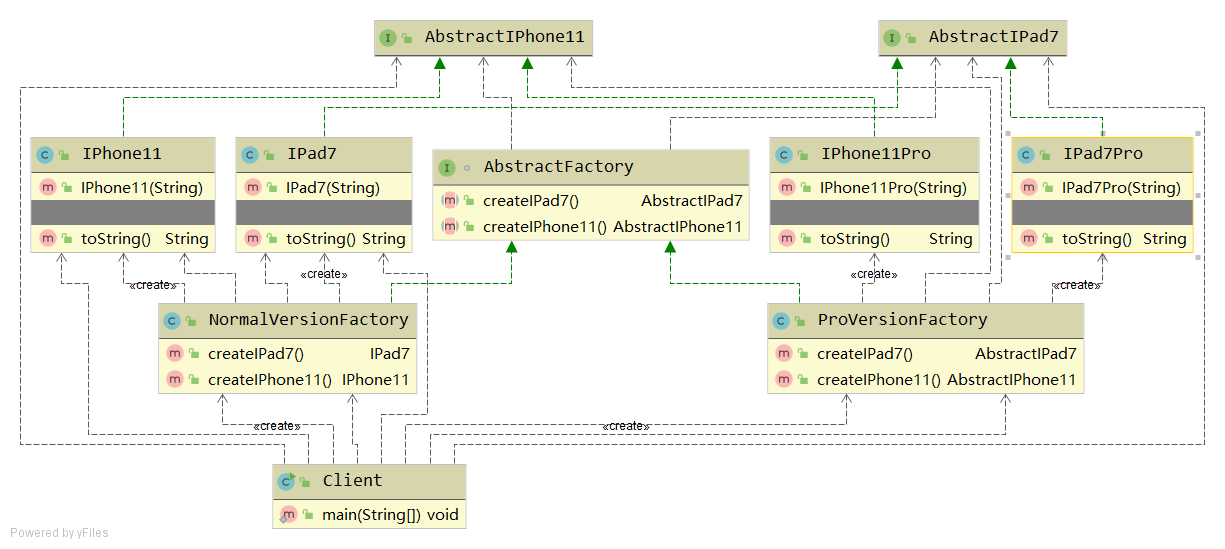
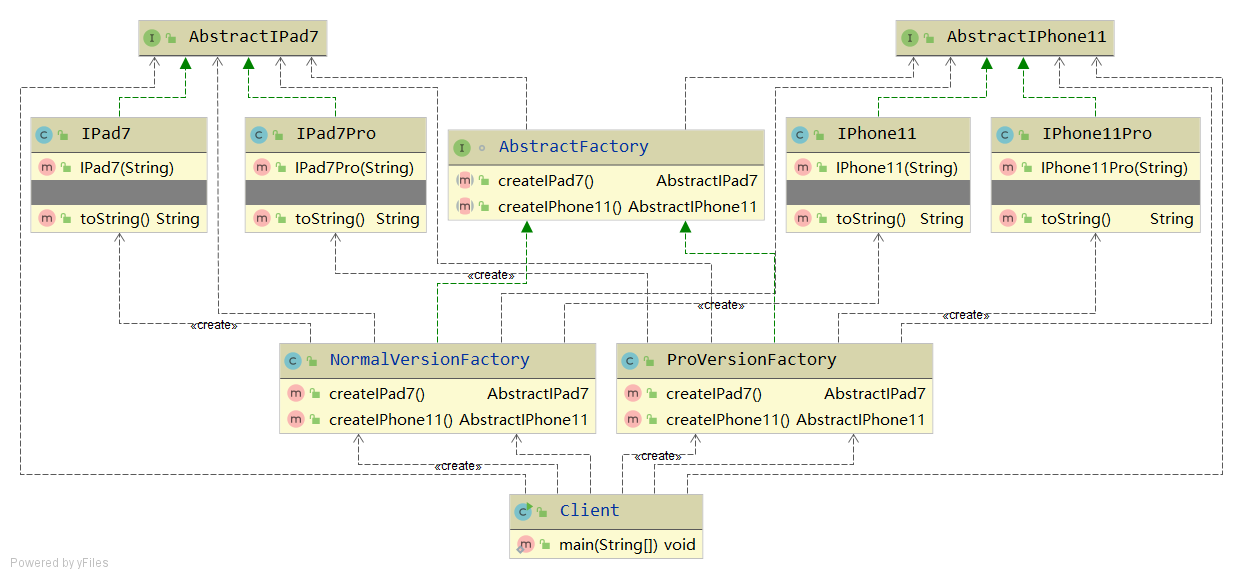
Update AbstractFactory

diff --git a/src/main/java/io/github/wdpm/pattern/creational/abstractfactory/Client.java b/src/main/java/io/github/wdpm/pattern/creational/abstractfactory/Client.java
@@ -7,8 +7,8 @@ package io.github.wdpm.pattern.creational.abstractfactory;
 public class Client {
     public static void main(String[] args) {
         NormalVersionFactory normalVersionFactory = new NormalVersionFactory();
-        IPad7                iPad7                = normalVersionFactory.createIPad7();
-        IPhone11             iPhone11             = normalVersionFactory.createIPhone11();
+        AbstractIPad7        iPad7                = normalVersionFactory.createIPad7();
+        AbstractIPhone11     iPhone11             = normalVersionFactory.createIPhone11();
         System.out.println(iPad7);
         System.out.println(iPhone11);
 

diff --git a/src/main/java/io/github/wdpm/pattern/creational/abstractfactory/NormalVersionFactory.java b/src/main/java/io/github/wdpm/pattern/creational/abstractfactory/NormalVersionFactory.java
@@ -6,12 +6,12 @@ package io.github.wdpm.pattern.creational.abstractfactory;
  */
 public class NormalVersionFactory implements AbstractFactory {
     @Override
-    public IPad7 createIPad7() {
+    public AbstractIPad7 createIPad7() {
         return new IPad7("iPad 7");
     }
 
     @Override
-    public IPhone11 createIPhone11() {
+    public AbstractIPhone11 createIPhone11() {
         return new IPhone11("iPhone 11");
     }
 }

diff --git a/src/main/java/io/github/wdpm/pattern/creational/abstractfactory/AbstractFactory.java b/src/main/java/io/github/wdpm/pattern/creational/abstractfactory/AbstractFactory.java
@@ -1,6 +1,8 @@
 package io.github.wdpm.pattern.creational.abstractfactory;
 
 /**
+ * 将工厂的变化封装于这个AbstractFactory中
+ *
  * @Created evan
  * @Date 2020/4/18
  */

diff --git a/docs/creational/AbstractFactory.md b/docs/creational/AbstractFactory.md
@@ -27,7 +27,9 @@
   - IPhone11
   - IPhone11Pro
   
-重点：抽象工厂生产抽象的产品 => AbstractFactory 生产 AbstractIPad7 或者 AbstractIPhone11
+重点：
+- 抽象工厂生产抽象的产品 => AbstractFactory 生产 AbstractIPad7 或者 AbstractIPhone11
+- 将工厂的变化封装于这个AbstractFactory中
 
 ## UML class diagram
 https://zh.wikipedia.org/wiki/File:Abstract_factory_UML.svg#file
